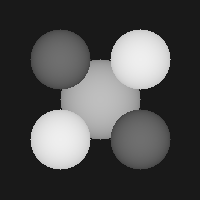
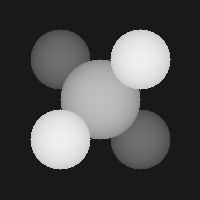
update, fix sphere intersect bug

Changed region(s): [[0.54, 0.54, 0.69, 0.69], [0.3, 0.3, 0.45, 0.45]]

diff --git a/README.md b/README.md
@@ -106,12 +106,16 @@ bool Sphere::intersect(const Ray &r, Hit &h, float tmin){
     
     if (tp - t < tmin){
         if (tp + t > tmin){ //射线在球内部，且相交
-            h.set(tp + t, material, r);
+            if (h.getMaterial() == NULL || h.getT() > tp+t){ //如果t比h中的t小，则更新h
+          		h.set(tp + t, material, r);
+            }
             return true;
         } else return false;//不相交
 
     } else {								//射线在球外部，且相交
-        h.set(tp - t, material, r);
+        if (h.getMaterial() == NULL || h.getT() > tp+t){		//如果t比h中的t小，则更新h
+      		h.set(tp - t, material, r);
+        }
         return true;
     }
 }
